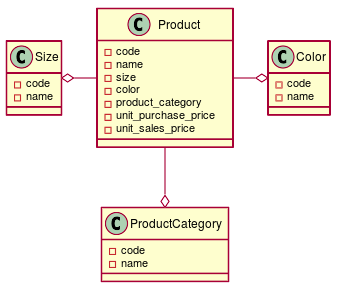
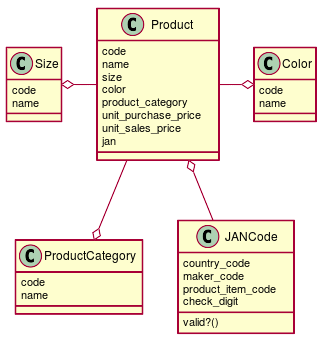
商品モデルの実装 #EFROR-77
・シンプルな商品モデルJANCode値オブジェクト導入

diff --git a/spec/models/sales_modeling/product_spec.rb b/spec/models/sales_modeling/product_spec.rb
@@ -13,15 +13,17 @@ RSpec.describe SalesModeling::Product, type: :model do
   let(:special) { create(:sales_modeling_product_category,name:'特価') }
   let(:null) { create(:sales_modeling_product_category,name:'無し') }
 
-  let(:product_a) { { code:'1',name:'商品A',size:s,color:blue, product_category:special } }
-  let(:product_b) { { code:'1',name:'商品B',size:m,color:black, product_category:normal } }
-  let(:product_c) { { code:'1',name:'商品C',size:l,color:red, product_category:null } }
+  let(:jan) { SalesModeling::JANCode.new('1234567890123')}
+
+  let(:product_a) { { code:jan.code,name:'商品A',size:s,color:blue, product_category:special } }
+  let(:product_b) { { code:jan.code,name:'商品B',size:m,color:black, product_category:normal } }
+  let(:product_c) { { code:jan.code,name:'商品C',size:l,color:red, product_category:null } }
 
   describe '#save!' do
     example '商品A サイズ:S・カラー:青・商品区分:特価の商品' do
       product = SalesModeling::Product.new
-      product.code = '1'
       product.name = '商品A'
+      product.jan = jan
       product.size = s
       product.color = blue
       product.product_category = special
@@ -33,8 +35,8 @@ RSpec.describe SalesModeling::Product, type: :model do
 
     example '商品B サイズ:M・カラー:黒・商品区分:定価の商品' do
       product = SalesModeling::Product.new({
-        code: '1',
         name: '商品B',
+        jan: jan,
         size: m,
         color: black,
         product_category: normal
@@ -46,7 +48,7 @@ RSpec.describe SalesModeling::Product, type: :model do
     end
 
     example '商品C サイズ:L・カラー:赤・商品区分:無し' do
-      product = { code:'1',name:'商品C',size:l,color:red, product_category:null }
+      product = { code:jan.code,name:'商品C',size:l,color:red, product_category:null }
       product = SalesModeling::Product.new(product)
       product.save!
 

diff --git a/app/models/sales_modeling/jan_code.rb b/app/models/sales_modeling/jan_code.rb
@@ -1,0 +1,20 @@
+class SalesModeling::JANCode
+  attr_reader :code,:country_code,:maker_code,:product_item_code,:check_digit
+
+  def initialize(code)
+    @code = code
+    valid?
+    @country_code = @code.slice(0,2)
+    @maker_code = @code.slice(3,7)
+    @product_item_code = @code.slice(9,3)
+    @check_digit = @code.slice(12,1)
+  end
+
+  def hash
+    self.hash
+  end
+
+  def valid?
+    raise unless @code.length == 13
+  end
+end

diff --git a/app/models/sales_modeling/product.rb b/app/models/sales_modeling/product.rb
@@ -31,6 +31,15 @@ class SalesModeling::Product < ApplicationRecord
   belongs_to :sales_modeling_product_category, :class_name => 'SalesModeling::ProductCategory'
   belongs_to :sales_modeling_size, :class_name => 'SalesModeling::Size'
 
+  def jan
+    @jan ||= SalesModeling::JANCode.new(self.code)
+  end
+
+  def jan=(jan)
+    self.code = jan.code
+    @jan = jan
+  end
+
   def size=(size)
     self.sales_modeling_size = size
   end

diff --git a/docs/dev/sales_modeling/sales_modeling_.md b/docs/dev/sales_modeling/sales_modeling_.md
@@ -9,15 +9,15 @@ SalesModeling
 #### 分析モデル
   
 
-![](../../../assets/07369ce125477171d3f4392d84e914cc0.png?0.2914215115639063)  
+![](assets/07369ce125477171d3f4392d84e914cc0.png?0.7243314913980632)  
 #### 設計モデル
   
 
-![](../../../assets/07369ce125477171d3f4392d84e914cc1.png?0.33799897217388963)  
+![](assets/07369ce125477171d3f4392d84e914cc1.png?0.08894261231402889)  
 #### ERモデル
   
 
-![](../../../assets/07369ce125477171d3f4392d84e914cc2.png?0.5537414511979135)  
+![](assets/07369ce125477171d3f4392d84e914cc2.png?0.3850099439965218)  
 `Product`
 ```rb
 # == Schema Information
@@ -52,6 +52,39 @@ class SalesModeling::Product < ApplicationRecord
   belongs_to :sales_modeling_color, :class_name => 'SalesModeling::Color'
   belongs_to :sales_modeling_product_category, :class_name => 'SalesModeling::ProductCategory'
   belongs_to :sales_modeling_size, :class_name => 'SalesModeling::Size'
+  
+  def jan
+    @jan ||= SalesModeling::JANCode.new(self.code)
+  end
+  
+  def jan=(jan)
+    self.code = jan.code
+    @jan = jan
+  end
+  
+  def size=(size)
+    self.sales_modeling_size = size
+  end
+  
+  def size
+    self.sales_modeling_size
+  end
+  
+  def color=(color)
+    self.sales_modeling_color = color
+  end
+  
+  def color
+    self.sales_modeling_color
+  end
+  
+  def product_category=(product_category)
+    self.sales_modeling_product_category = product_category
+  end
+  
+  def product_category
+    self.sales_modeling_product_category
+  end
 end
   
 ```  
@@ -108,5 +141,28 @@ class SalesModeling::ProductCategory < ApplicationRecord
   has_many :sales_modeling_products, :class_name => 'SalesModeling::Product'
 end
   
+```  
+`JANCode`
+```rb
+class SalesModeling::JANCode
+  attr_reader :code,:country_code,:maker_code,:product_item_code,:check_digit
+  
+  def initialize(code)
+    @code = code
+    valid?
+    @country_code = @code.slice(0,2)
+    @maker_code = @code.slice(3,7)
+    @product_item_code = @code.slice(9,3)
+    @check_digit = @code.slice(12,1)
+  end
+  
+  def hash
+    self.hash
+  end
+  
+  def valid?
+    raise unless @code.length == 13
+  end
+end
 ```  
   

diff --git a/docs/dev/sales_modeling/sales_modeling.md b/docs/dev/sales_modeling/sales_modeling.md
@@ -32,29 +32,39 @@ class 商品区分 {
 #### 設計モデル
 ```puml
 class Product {
-  - code
-  - name
-  - size
-  - color
-  - product_category
-  - unit_purchase_price
-  - unit_sales_price
+  code
+  name
+  size
+  color
+  product_category
+  unit_purchase_price
+  unit_sales_price
+  jan
 }
 class Size {
-  - code
-  - name
+  code
+  name
 }
 class Color {
-  - code
-  - name
+  code
+  name
 }
 class ProductCategory {
-  - code
-  - name
+  code
+  name
 }
+class JANCode {
+  country_code
+  maker_code
+  product_item_code
+  check_digit
+  valid?()
+}
+
 Product --ro Size
 Product -o Color
 Product --o ProductCategory
+Product o-- JANCode
 ```
 #### ERモデル
 ```puml
@@ -95,3 +105,5 @@ Product }-do-|| ProductCategory
 @import "../../../app/models/sales_modeling/color.rb"
 `ProductCategory`
 @import "../../../app/models/sales_modeling/product_category.rb"
+`JANCode`
+@import "../../../app/models/sales_modeling/jan_code.rb"
